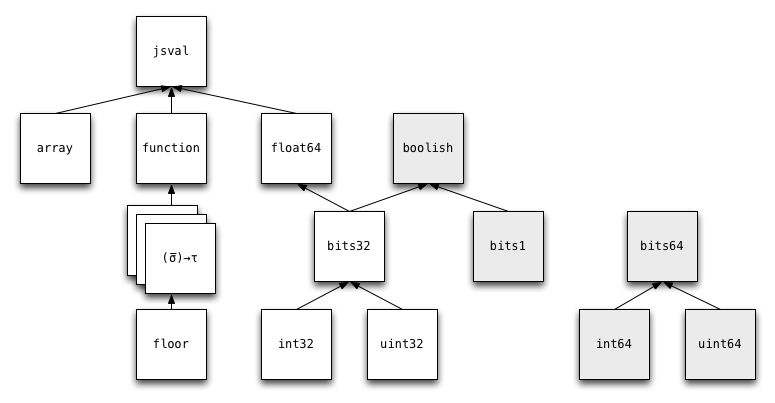
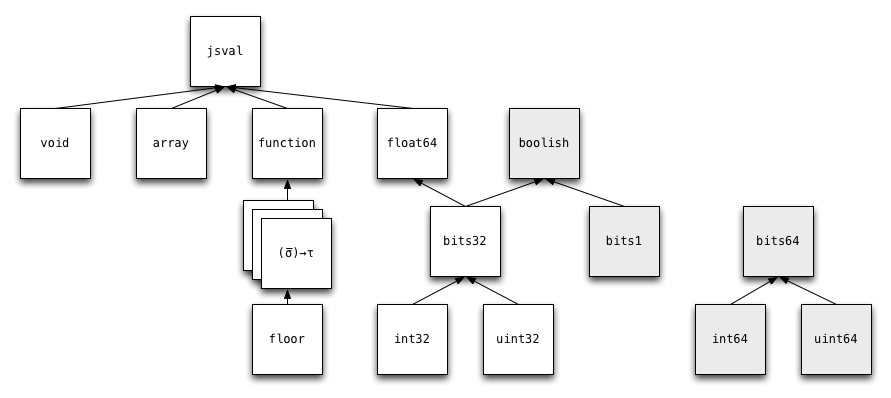
added void functions

Changed region(s): [[0.0, 0.0302, 0.7432, 0.9648], [0.7432, 0.5126, 0.991, 0.9648]]

diff --git a/tex/def.tex b/tex/def.tex
@@ -54,6 +54,7 @@
 \newcommand{\any}{\mathtt{jsval}}
 \newcommand{\str}{\mathtt{string}}
 \newcommand{\undef}{\mathtt{undefined}}
+\newcommand{\void}{\mathtt{void}}
 \newcommand{\nul}{\mathtt{null}}
 \newcommand{\num}{\mathtt{number}}
 \newcommand{\obj}{\mathtt{object}}
@@ -194,6 +195,7 @@ e & ::= & \kappa_{\mathit{num}} \\
              &  |  & \arr{\tau} ~|~ \function ~|~ \any \\
              &  |  & \floor \\
              &  |  & \funty{\seq{\sigma}}{\tau} \\
+             &  |  & \void \\
              %% &  |  & (\union{\sigma}{\tau}) \\
 %% \sigma, \tau & ::= & \mathtt{int} \\
 %%              &  |  & \uintone ~|~ \uinttwo ~|~ \uintfour \\
@@ -259,6 +261,7 @@ L        \cup \mustret & = & L \\
 \double               & <: & \any \\
 \function             & <: & \any \\
 \arr{\tau}            & <: & \any \\
+\void                 & <: & \any \\
 \floor                & <: & \funty{\double}{\double} \\
 \funty{\sigma}{\tau}  & <: & \function \\
 %% \sigma              & <: & \union{\sigma}{\tau} \\
@@ -336,8 +339,8 @@ A(\mathtt{Float64Array}) & = & \double \\
   {\{ \seq{x} \} \cap \{ \seq{f} \} = \emptyset \\
    \{ \seq{x} \} \cap \{ b, e \} = \emptyset \\
    \{ \seq{f} \} \cap \{ b, e \} = \emptyset \\\\
-   \forall i . \impjudge{b}{e}{\Gamma_0}{\mathit{imp}_x} \\\\
-   \forall i . \fnjudge{\Gamma_0, \Gamma_1}{\mathit{fn}_f} \\\\
+   \forall i . \impjudge{b}{e}{\Gamma_0}{\mathit{imp}_x} \\
+   \forall i . \fnjudge{\Gamma_0, \Gamma_1}{\mathit{fn}_f} \\
    \forall i . \expjudge{\Gamma_0, \Gamma_1}{r}}
   {\Pjudge{\function(b,e)\mathjs{ \{ }\seq{\mathit{imp}_x}\ \seq{\mathit{fn}_f}\ \mathit{exp}\mathjs{ \}}}}
 \end{array}
@@ -384,8 +387,16 @@ A(\mathtt{Float64Array}) & = & \double \\
 \inferrule* [lab=\rel{T-Function}]
   {\{ \seq{x} \} \cap \{ \seq{y} \} = \emptyset \\
    \Gamma(f) = \funty{\seq{\sigma}}{\tau} \\
-   \seq{\sigma} = \seq{\type(\kappa_x)} \\\\
+   \seq{\sigma} = \seq{\type(\kappa_x)} \\
+   \tau \not= \void \\\\
    \stmtjudge{\Gamma, \{ \seq{x : \sigma}, \seq{y : \type(v)} \}}{\emptyset}{\mathit{ss}}{\tau}{\mustret}}
+  {\fnjudge{\Gamma}{\fun{f}{\seq{x}}{\seq{x\mathjs{ = }\kappa_x\mathjs{;}}\ \var{\seq{y\mathjs{ = }v}}\ \mathit{ss}}}}
+\\ \\
+\inferrule* [lab=\rel{T-VoidFunction}]
+  {\{ \seq{x} \} \cap \{ \seq{y} \} = \emptyset \\
+   \Gamma(f) = \funty{\seq{\sigma}}{\void} \\
+   \seq{\sigma} = \seq{\type(\kappa_x)} \\\\
+   \stmtjudge{\Gamma, \{ \seq{x : \sigma}, \seq{y : \type(v)} \}}{\emptyset}{\mathit{ss}}{\void}{\varepsilon}}
   {\fnjudge{\Gamma}{\fun{f}{\seq{x}}{\seq{x\mathjs{ = }\kappa_x\mathjs{;}}\ \var{\seq{y\mathjs{ = }v}}\ \mathit{ss}}}}
 %% \\ \\
 %% \inferrule* [lab=\rel{T-Function}]
@@ -455,9 +466,13 @@ A(\mathtt{Float64Array}) & = & \double \\
    \varepsilon = \varepsilon_1 \cup \varepsilon_2}
   {\stmtjudge{\Gamma}{L}{\ifthenelse{e}{s_1}{s_2}}{\tau}{\varepsilon}}
 \\ \\
-\inferrule* [lab=\rel{T-Return}]
+\inferrule* [lab=\rel{T-ReturnExpr}]
   {\exprjudge{\Gamma}{e}{\tau}}
   {\stmtjudge{\Gamma}{L}{\return{e}}{\tau}{\mustret}}
+\qquad
+\inferrule* [lab=\rel{T-ReturnVoid}]
+  { }
+  {\stmtjudge{\Gamma}{L}{\mathtt{return;}}{\void}{\mustret}}
 \\ \\
 \inferrule* [lab=\rel{T-While}]
   {\exprjudge{\Gamma}{e}{\sigma <: \boolish} \\\\
@@ -488,12 +503,12 @@ A(\mathtt{Float64Array}) & = & \double \\
 \multicolumn{2}{c}{
 \begin{array}{c}
 \inferrule* [lab=\rel{T-Break}]
-  {\varepsilon = \{ \epsilon \}}
-  {\stmtjudge{\Gamma}{L}{\brk}{\tau}{\varepsilon}}
+  { }
+  {\stmtjudge{\Gamma}{L}{\brk}{\tau}{\{ \epsilon \}}}
 \qquad
 \inferrule* [lab=\rel{T-BreakLabel}]
-  {\varepsilon = \{ \mathit{lab} \}}
-  {\stmtjudge{\Gamma}{L}{\brkl{\mathit{lab}}}{\tau}{\varepsilon}}
+  { }
+  {\stmtjudge{\Gamma}{L}{\brkl{\mathit{lab}}}{\tau}{\{ \mathit{lab} \}}}
 \\ \\
 \inferrule* [lab=\rel{T-Continue}]
   { }
